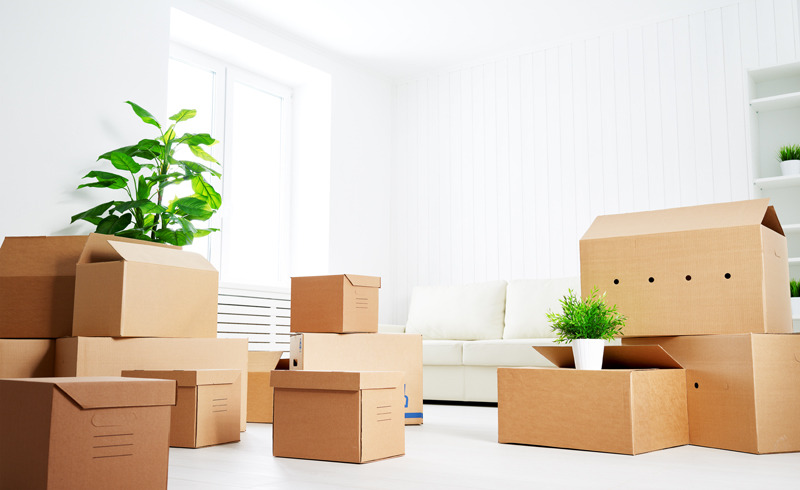
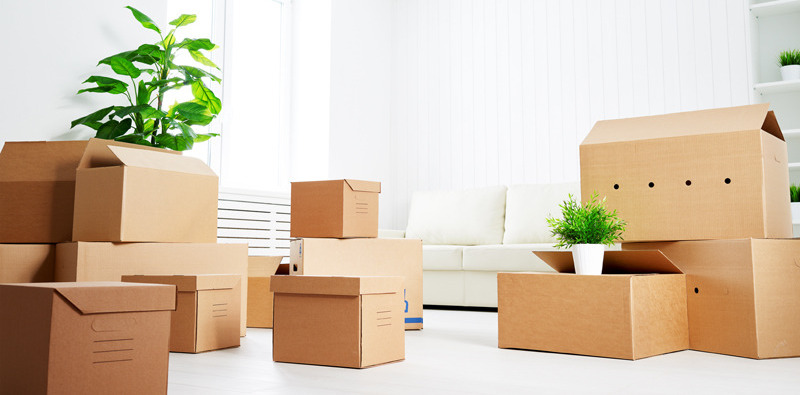
sista ändringar

diff --git a/kontakta-oss.html b/kontakta-oss.html
@@ -10,41 +10,35 @@ map:
   longitude: 17.9791564
   address: 'Storgatan 104 B, 171 55 Solna'
   zoom: 13
-image: /images/k-bg.jpg
+image: /images/introforetag.jpg
 ---
-
 {% include banner_booking.html %}
 <!-- Banner -->
 <section style="padding:0">
   <div style="border-radius:3px;" class="flex">
     <div class="item" style="padding:10px;">
-        
-        <div class="item-child">
-          <h3>Fyll i blanketten</h3>
-          <script>
-            hbspt.forms.create({
+      <div class="item-child">
+        <h3>Fyll i blanketten</h3>
+        <script>
+          hbspt.forms.create({
             portalId: "5554697",
             formId: "6897e211-234e-4743-b1fc-d1932955be15"
           });
-          </script>
-        </div>
-        <div class="item-staticchild">
-            
-            <h2><a href="tel:+4686605555">08 - 660 55 55</a>
-              <br /><a href="mailto:kundtjanst@enrenarevardag.se">kundtjanst@enrenarevardag.se</a>
-              <br />Storgatan 104 B
-                  <br />171 55 Solna
-                  <br />Org nr: 556847-2038</h3>
-        </div>
+        </script>
       </div>
-
-    <div class="item" style="padding:10px;">
-      <a href="https://goo.gl/maps/e1YiLPf2QKw" target="_blank" rel="noopener noreferrer nofollow" style="border:none;"><img src="/images/hittahit.jpg" alt="Karta till vårta huvudkontor" width="100%" /></a>
-      
-      
-      
-<p style="height:500px;">&nbsp;</p>
+      <div class="item-staticchild">
+      </div>
     </div>
-
+    <div class="item" style="padding:10px;">
+      <a href="https://goo.gl/maps/e1YiLPf2QKw" target="_blank" rel="noopener noreferrer nofollow"
+        style="border:none;"><img src="/images/hittahit.jpg" alt="Karta till vårta huvudkontor" width="100%" /></a>
+      <ul class="contact">
+        <li class="fa-envelope-o"><a href="mailto:kundtjanst@enrenarevardag.se">kundtjanst@enrenarevardag.se</a></li>
+        <li class="fa-phone"><a href="tel:+4686605555">08-660 55 55</a></li>
+        <li class="fa-home">Storgatan 104 B, 171 55 Solna <br />
+          Org nr: 556847-2038</li>
+      </ul>
+      <p style="height:100px;">&nbsp;</p>
+    </div>
   </div>
 </section>

diff --git a/_layouts/infosidor.html b/_layouts/infosidor.html
@@ -2,22 +2,18 @@
 layout: default
 ---
 {% include banner-landing.html %}
-
-
-              
-							<!-- Content -->
-								<section class="whiteybg">
-{{ content }}
-<iframe src="https://widget.reco.se/v2/widget/3673336?mode=HORIZONTAL_QUOTE" width="100%" title="Reco Betyg" height="225" scrolling="no" style="border:0;display:block;margin-top:20px;" data-reactroot=""></iframe>
-{% if page.bokning == false %}
-&nbsp;  <img src="/images/ikon/nojdkund.png" />
-{% else %}
-<br />
-<img src="/images/ikon/nojdkund.png" />
-              <ul class="actions">
-                <li><a href="/boka/{{ page.hubspot }}" class="button primary large editable knap">Boka Nu!</a></li>
-              </ul>
-{% endif %}
-                </section>
-
-
+<!-- Content -->
+<section class="whiteybg">
+  {{ content }}
+  <iframe src="https://widget.reco.se/v2/widget/3673336?mode=HORIZONTAL_QUOTE" width="100%" title="Reco Betyg"
+    height="225" scrolling="no" style="border:0;display:block;margin-top:20px;" data-reactroot=""></iframe>
+  {% if page.bokning == false %}
+  &nbsp; <img src="/images/ikon/nojdkund.png" />
+  {% else %}
+  <br />
+  <img src="/images/ikon/nojdkund.png" />
+  <ul class="actions">
+    <li><a href="/boka/{{ page.hubspot }}" class="button primary large editable knap">Boka Nu!</a></li>
+  </ul>
+  {% endif %}
+</section>

diff --git a/_includes/banner-landing.html b/_includes/banner-landing.html
@@ -1,16 +1,11 @@
 <!-- BEGIN banner-landing -->
-<section id="banner" style="background-image: url({{ page.image }});background-repeat: no-repeat;background-size: cover; padding-top:20em;">
+<section id="banner"
+  style="background-image: url({{ page.image }});background-repeat: no-repeat;background-size: cover; padding-top:20em;background-position:center;">
   <div class="content">
     <header style="background-color:rgba(255,255,255,0.85);margin:0 15px 0 15px; padding:10px;border-radius: 5px;">
       <h1>{{ page.title }}<br /></h1>
       <p>{{ page.description }}</p>
-
-      <ul class="actions">
-        <li><a href="/boka/" id="button" class="button primary large knap">Boka Nu</a></li>
-      </ul>
-
     </header>
-
   </div>
   <span class="image object">
     &nbsp;

diff --git a/_includes/banner_booking.html b/_includes/banner_booking.html
@@ -1,5 +1,6 @@
 <!-- BEGIN banner_boking.html -->
-<section id="banner" style="background-image: url({{ page.image }});background-repeat: no-repeat;background-size: cover; padding-top:18.5em;">
+<section id="banner"
+  style="background-image: url({{ page.image }});background-repeat: no-repeat;background-size: cover; padding-top:18.5em;background-position:center;">
   <div class="content" style="padding-bottom: 0;">
     <header style="background-color:rgba(255,255,255,0.85);margin:0 15px 0 15px; padding:10px;border-radius: 5px;">
       <h1>{{ page.title }}<br /></h1>

diff --git a/_includes/banner.html b/_includes/banner.html
@@ -1,5 +1,5 @@
 <!-- BEGIN banner.html -->
-<section id="banner" style="background-image: url({{ page.image }});background-repeat: no-repeat;background-size: cover;padding-top:20em;">
+<section id="banner" style="background-image: url({{ page.image }});background-repeat: no-repeat;background-size: cover;padding-top:20em;background-position:center; ">
   <div class="content">
     <header style="background-color:rgba(255,255,255,0.85);margin:0 15px 0 15px; padding:10px;border-radius: 5px;">
       <h1>{{ page.title }}<br /></h1>

diff --git a/_includes/bokamera.html b/_includes/bokamera.html
@@ -42,7 +42,7 @@
         <div>
           {% for post in site.posts limit: 1 %}
           <article>
-            <a href="{{ post.url }}" class="image"><img class="nyheter" src="{{ post.image }}" alt="{{ post.title }}" /></a>
+            <a href="{{ post.url }}" class="image"><img class="nyheter" src="/images/erbjudande.png" alt="{{ post.title }}" /></a>
             <h3 class="nyheter">{{ post.title }}</h3>
             <p class="nyheter">{{ post.description }}</p>
             <ul class="actions">

diff --git a/vanliga-fragor.html b/vanliga-fragor.html
@@ -5,7 +5,7 @@ description: >-
   Om du inte hittar ditt svar är du välkommen att höra av dig till oss när som
   helst.
 layout: infosidor
-image: /images/Question.jpg
+image: /images/fragor_och_svar.jpg
 permalink: /vanliga-fragor/
 ---
 

diff --git a/integritetspolicy.md b/integritetspolicy.md
@@ -1,18 +1,20 @@
 ---
 title: Integritets Policy
-date: 2019-04-10 00:01:00 +0200
+date: 2019-04-25 05:07:00 +0200
 descrtiption: 'På En Renare Vardag AB bryr vi oss om dig och alla våra kunder.'
 sitemap: true
+layout: infosidor
+image: /images/trygghet-mitten2-538d907e2a6b22099a1eb5b5.jpg
 ---
 # Personuppgifter och integritetspolicy
 
-**En Renare Vardag** är personuppgiftsansvarig och förvaltar Användarens personuppgifter enligt Dataskyddsförordningen (GDPR) och annan tillämplig lagstiftning. Användarens kontaktuppgifter används för att **En Renare Vardag** kunna uppfylla sina avtalsenliga förpliktelser mot denne. 
+**En Renare Vardag** är personuppgiftsansvarig och förvaltar webbplatsesökarnas personuppgifter enligt Dataskyddsförordningen (GDPR) och annan tillämplig lagstiftning. Webbplatsesökarnas kontaktuppgifter används för att **En Renare Vardag** kunna uppfylla sina avtalsenliga förpliktelser mot denne. 
 
-Vi värnar om din personliga integritet vid behandling av dina personuppgifter och eftersträvar alltid en hög nivå av dataskydd. Denna integritetspolicy förklarar hur vi på **En Renare Vardag** samlar in och använder dina personuppgifter. Vår policy beskriver även hur vi samlar in uppgifter på ett lagligt och pålitligt sätt och den beskriver även dina rättigheter. Kontakta oss om du har frågor kring vår hantering av dina personuppgifter och hur vi arbetar med integritets- och dataskydd på nedanstående adress.
+Vi värnar om och respekterar din personliga integritet vid behandling av dina personuppgifter och eftersträvar alltid högsta möjliga nivå av dataskydd. Denna integritetspolicy förklarar hur vi på **En Renare Vardag** samlar in och använder personuppgifterna du ger oss. Vår policy beskriver även hur vi samlar in dessa uppgifter på ett lagligt och pålitligt sätt och den beskriver också dina rättigheter. Kontakta oss om du har frågor kring vår hantering av dina personuppgifter och hur vi arbetar med integritets- och dataskydd på nedanstående adress.
 Vi vidtar åtgärder för att säkerställa att dina personuppgifter alltid är skyddade hos oss och att behandlingen sker i enlighet med gällande dataskyddsregler och våra interna riktlinjer och rutiner.
 
 ### Vem är personuppgiftsansvarig?
-**En Renare Vardag** är personuppgiftsansvarig och kan kontaktas på följande adress:
+**En Renare Vardag AB** är personuppgiftsansvarig och kan kontaktas på följande adress:
 ```
 En Renare Vardag AB
 Org nr: 556847-2038
@@ -22,32 +24,34 @@ info@enrenarevardag.se
 ```
 
 ### Hur samlar vi in personuppgifter?
-Vi samlar in information som du lämnar till oss vid t.ex. att du skickar in en förfrågan om vår städtjänster.
+Vi samlar in information som du lämnar till oss på våran webbplats när du t.ex: 
+- Fyller i en av våra formulärer
+- Skriver i chatten
+- Skickar in en förfrågan om vår städtjänster.
 
 ### Vilken typ av personuppgifter samlar vi in?
-**En Renare Vardag** samlar in de personuppgifter som behövs för att kunna utföra de städtjänster.
+**En Renare Vardag** samlar in de personuppgifter som behövs för att kunna utföra de städtjänster vi erbjuder.
 Personuppgifter är alla slags uppgifter som ensamt eller i kombination med andra uppgifter kan knytas till en fysisk person som är i livet. Vanliga personuppgifter är namn, personnummer och kontaktuppgifter, andra personuppgifter kan till exempel vara bilder och ljudupptagningar.
 
 ### Vad är ändamålet med behandlingen av dina personuppgifter?
-Dina personuppgifter kan användas för att kunna leverera en städtjänst du har bett oss om hjälp med som att få offerter eller för att skicka e-post med relevant information. Vi kan även, om du inte skriftligen har motsatt dig sådan marknadsföring, komma att använda dina personuppgifter för marknads- och kundanalyser, utveckling och förbättring av våra tjänster, riskhantering och statistik.
+Dina personuppgifter kan användas för att kunna leverera en städtjänst du har bett oss om hjälp med, för att kunna förse dig med relevanta offerter eller för att skicka e-post med relevant information. Vi kan även, om du inte skriftligen har motsatt dig sådan marknadsföring, komma att använda dina personuppgifter för marknads- och kundanalyser, utveckling och förbättring av våra tjänster, riskhantering och statistik.
 
 ### Närmare om dina rättigheter till rättelse, radering m.m.
-Du har rätt att gratis en gång per kalenderår få besked om vilka personuppgifter om dig som vi behandlar och hur vi behandlar dessa. Du har också rätt att begära rättelse i fråga om personuppgifter som vi behandlar om dig. Du har även rätt att bli raderad (”rätten att bli bortglömd”). Detta innebär att du kan begära radering av dina personuppgifter för de fall att datan inte längre är nödvändig för det syfte den blev insamlad för. Tänkt dock på att det kan finnas legala skyldigheter för oss som hindrar en omedelbar radering, t.ex. krav i bokförings- och skattelagstiftning.
-Vill du framföra klagomål till en tillsynsmyndighet eller undrar något annat om dina rättigheter kring personuppgifter behandlade av oss ska du vända dig till Datainspektionen /Integritetsskydds-myndigheten. Kontaktuppgifter till dem hittar du här: <https://www.datainspektionen.se>
+Du har rätt att få besked om vilka personuppgifter om dig som vi lagrar och behandlar och hur vi lagrar och behandlar dessa gratis en gång per kalenderår. Du har också rätt att begära rättelse i fråga om personuppgifter som vi behandlar om dig. Du har även rätt att bli raderad (”rätten att bli bortglömd”). Detta innebär att du kan begära radering av dina personuppgifter för de fall att datan inte längre är nödvändig för det syfte den blev insamlad för. Det kan dock finnas legala skyldigheter för oss som hindrar en omedelbar radering, t.ex. krav i bokförings- och skattelagstiftning.
+Vill du framföra klagomål till en tillsynsmyndighet eller undrar något annat om dina rättigheter kring personuppgifter behandlade av oss ska du vända dig till Datainspektionen/Integritetsskydds-myndigheten. Kontaktuppgifter till dem hittar du här: <https://www.datainspektionen.se>
 
 ### Hur länge sparar vi dina personuppgifter?
-Vi sparar din data endast så länge som det är nödvändigt för att utföra våra avtalsenliga åtaganden gentemot dig och så länge det krävs enligt lagstadgade lagringstider. När vi sparar din data för andra syften än för våra avtalsenliga åtaganden, t.ex. för att uppfylla krav på bokföring och andra regulatoriska kapitalkrav, sparar vi dina personuppgifter endast så länge som det är nödvändigt och/eller lagstadgat för respektive syfte.
+Vi sparar din data endast så länge det krävs enligt lagstadgade lagringstider och så länge som det är nödvändigt för att utföra våra avtalsenliga åtaganden gentemot dig. När vi sparar din data för andra syften än för våra avtalsenliga åtaganden, t.ex. för att uppfylla krav på bokföring och andra regulatoriska kapitalkrav, sparar vi dina personuppgifter endast så länge som det är nödvändigt och/eller lagstadgat för respektive syfte.
 
 ### Hur använder vi cookies?
-På våra webbsidor används cookies. En cookie är en textfil som sparas ned till din enhet så att hemsidan kan känna igen din enhet. Denna cookie innehåller ingen personinformation. Det finns två typer av cookies, permanenta och temporära (så kallade sessionscookies).
+På våra webbsidor används cookies. En cookie är en textfil som sparas ned till din enhet så att hemsidan kan känna igen din enhet. Det finns två typer av cookies, permanenta och temporära (så kallade sessionscookies).
 Permanenta cookies lagras som en fil på din enhet under en längre period, medan temporära/sessionscookies är temporärt placerade på din enhet och används bara under den tid du surfar på sidan och försvinner därefter.
 
-Cookies används till att ge dig som besökare tillgång till olika funktioner. I en cookie är det möjligt att se/följa en användares surfande och vi använder cookies för att administrera och anpassa dina besök i våra onlinetjänster samt erbjuda tillgång till särskilt utvalda delar i våra onlinetjänster. Vi använder även cookies på vår webbsida för att vi ska kunna föra statistik över vad som beställs och hur mycket webben används i sin helhet.
-Om du vill veta när din enhet tar emot en cookie, kan du ställa in din webbläsare så att den meddelar dig om det. På så vis har du möjlighet att acceptera eller avvisa en cookie. Din enhet kan också ställas in så att den avvisar samtliga cookies. För det fall du väljer att inte acceptera cookies, vänligen notera att vissa funktioner i våra onlinetjänster inte längre kommer att fungera såsom avsett.
+Cookies används till att ge dig som besökare tillgång till olika funktioner. Vi använder cookies på vår webbsida för att vi ska kunna föra statistik över vad som beställs och hur mycket webben används i sin helhet. I en cookie är det möjligt att se/följa en användares surfande på våran webbplats och vi använder cookies för att administrera och anpassa dina besök i våra onlinetjänster samt erbjuda tillgång till särskilt utvalda delar i våra onlinetjänster. 
+Om du vill veta när din enhet tar emot en cookie, kan du ställa in din webbläsare så att den meddelar dig om det. Vid ditt första besök ger vi dig även möjligheten att välja bort cookies från våran webbsida. På dessa vis har du möjlighet att acceptera eller avvisa en cookie. Din enhet kan också ställas in så att den avvisar samtliga cookies. För det fall du väljer att inte acceptera cookies, vänligen notera att vissa funktioner i våra onlinetjänster inte längre kommer att fungera såsom avsett. För att hitta information om hur du ställer in din webbläser, vänligen besök din webbläsares tillverkare.
 
 Senaste versionen: {{ page.date | date: '%Y-%m-%d' }}
 
-<br />
-<iframe src="https://widget.reco.se/v2/widget/3673336?mode=HORIZONTAL_QUOTE" width="100%" title="Reco Betyg" height="225" scrolling="no" style="border:0;display:block;margin-top:20px;" data-reactroot=""></iframe>
+
 
 <br /><br /><br /><br /><br />

diff --git a/_foretag/golvvard.md b/_foretag/golvvard.md
@@ -1,7 +1,7 @@
 ---
 title: Golvvård i Stockholm
 description: "Vi på En Renare Vardag erbjuder vård av golv för företag i Storstockholm. Få dina kunder att häpnas över dina skinande golv. Hör av dig och boka ett kostnadsfritt möte."
-image: /images/cristina-gottardi-685293-unsplash.jpg
+image: /images/clean-cleaning-mop-48889.jpg
 permalink: /foretag/golvvard/
 layout: generic
 menutitle: Golvvård

diff --git a/webcreds.md b/webcreds.md
@@ -1,11 +1,13 @@
 ---
-title: Mjukvara och Bilder
+title: Mjukvara som körs på sidan
 date: 2019-04-10 00:01:00 +0200
 descrtiption: 'Bilder och mjukvara som använts för att bygga denna webbsida'
 permalink: /webcreds/
 sitemap: true
+layout: infosidor
+image: /images/erv.jpg
 ---
-# En Renare Vardarg AB
+## En Renare Vardarg AB
 
 Built with Jekyll (<https://jekyllrb.com/>)
 

diff --git a/_foretag/skolstadning.md b/_foretag/skolstadning.md
@@ -1,5 +1,5 @@
 ---
-title: Städning av skola i Stockholm
+title: Skolstädning i Stockholm
 description: "En renare vardag hjälper er att vistas i en ren och fräsch skolmiljö som ger ökat trivsel för elever och personal med högkvalitativ städning. Hör av dig och boka ett kostnadsfritt möte."
 image: /images/sko.jpg
 permalink: /foretag/skolstadning/

diff --git a/_privat/storstadning.md b/_privat/storstadning.md
@@ -2,7 +2,7 @@
 title: Storstädning och visningsstädning i Stockholm
 description: >-
   En Renare Vardag AB erbjuder kvalitativ storstädning och visningsstädning för privatpersoner i Storstockholm till ett rimligt pris.
-image: /images/stor-1.jpg
+image: /images/storstadning.jpg
 permalink: '/privat/:name/'
 layout: generic
 menutitle: Storstädning
